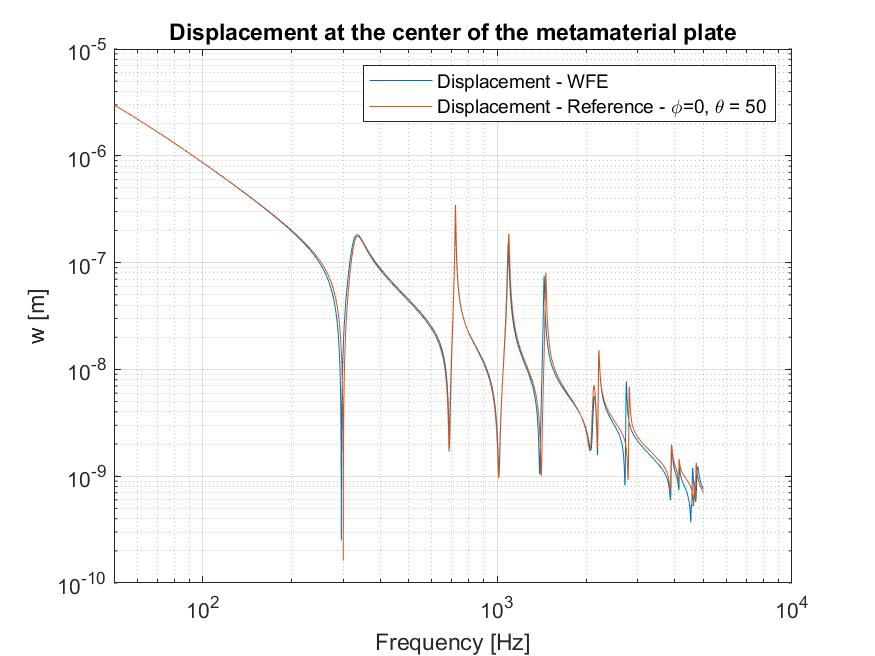
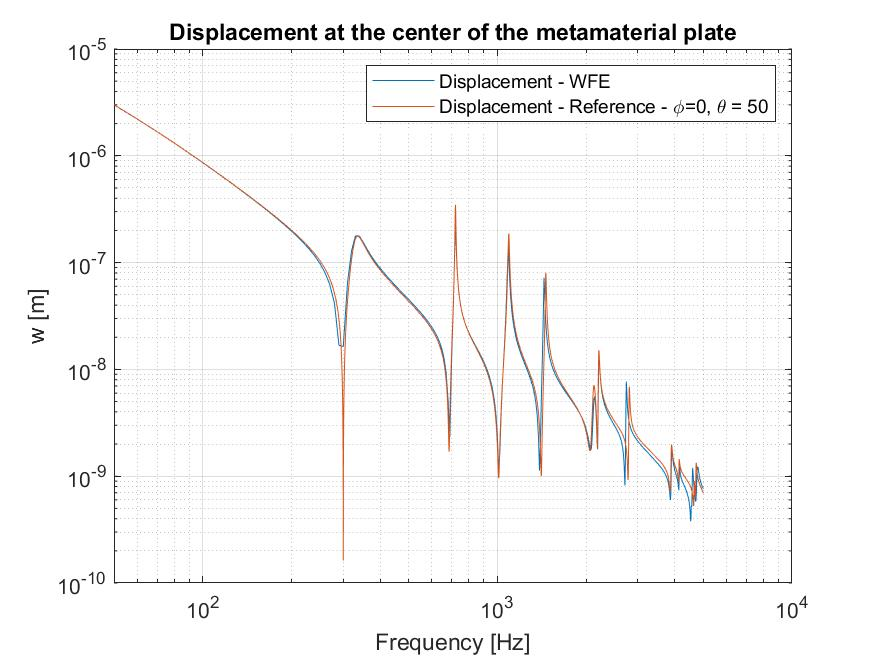
Commit - 15.07.22

diff --git a/consolidado_formulacao_simplificada/main_stl_plate_resonators_consolidado_simplificado.m b/consolidado_formulacao_simplificada/main_stl_plate_resonators_consolidado_simplificado.m
@@ -36,7 +36,8 @@ tic
 fmin = 50; %[Hz]
 fmax = 5000; %[Hz]
 
-freq = logspace(log10(fmin),log10(fmax),1e4);
+% freq = logspace(log10(fmin),log10(fmax),1e4);
+freq = fmin:10:fmax;
 omega = 2*pi*freq; %[rad/s]
 nfreq = length(freq);
 
